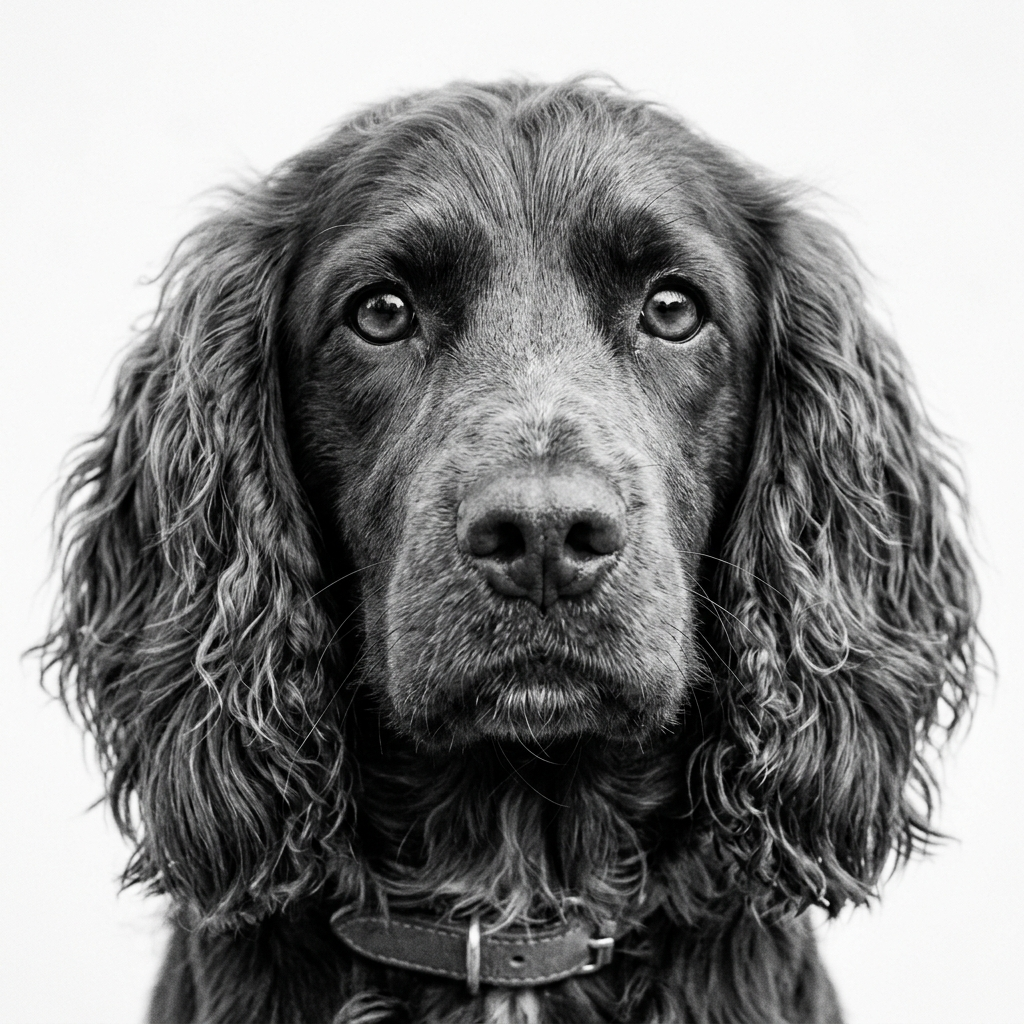
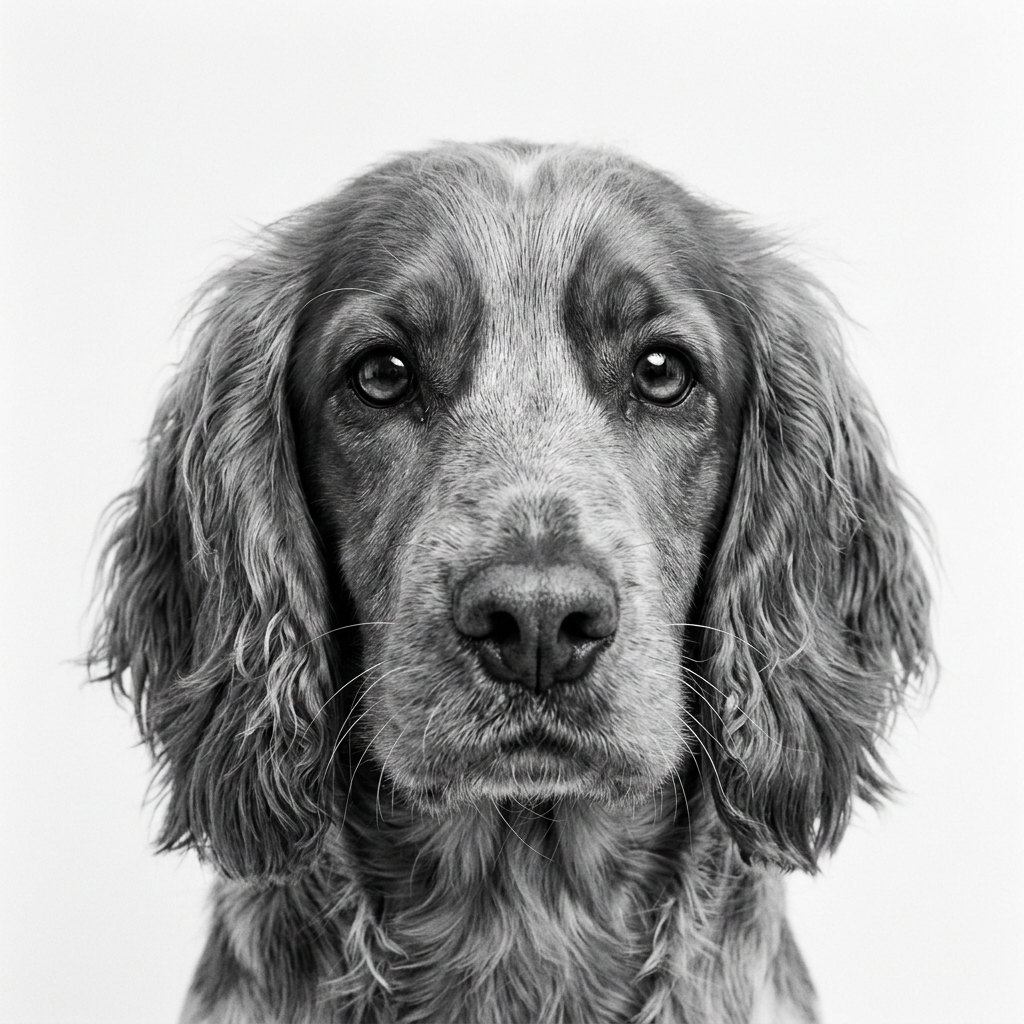
Numba kernels for scoring and the colour model; restore the original sample photos
engine/kernels.py holds two fused loops compiled by Numba on first use (numpy twins run
without it): score_add (gains of all candidate lines from H1 and H2) and color_terms (the
whole per-pixel colour model on a crop). Checked equal to float precision (ADR-018).

Bench, this desktop:
  single thread, man sample   0.1543 in 37.3 s  ->  0.1542 in 29.9 s
  auto four-colour plan       0.2496 in 209 s   ->  0.2304 in 55.5 s (more polish rounds)

The three original sample photos are restored from 990014f: the colour-sample script had
imported the generator module, which regenerates every sample at import, and v0.3.0 carried
the replacements by mistake. portrait-color.jpg stays. Container: NUMBA_CACHE_DIR in the
studio user's home, NUMBA_NUM_THREADS=2. Version 0.3.1. Tests: 40 passed.

diff --git a/stringart/engine/kernels.py b/stringart/engine/kernels.py
@@ -1,0 +1,185 @@
+"""Fused inner loops (ADR-018). Numba compiles them on first use and caches the result; without
+Numba the same functions run as plain numpy, slower but identical in result.
+
+Two kernels carry most of the engines' time:
+  score_add      gains of many candidate lines from the precomputed products H1 and H2
+  color_terms    per-pixel colour model on a crop: composite, Lab, Jacobian, one gradient
+                 integrand and one second-order weight per layer
+"""
+from __future__ import annotations
+
+import os
+
+import numpy as np
+
+try:  # pragma: no cover - exercised through the engines
+    import numba
+    from numba import njit, prange
+
+    HAVE_NUMBA = True
+    if "NUMBA_NUM_THREADS" not in os.environ:
+        try:
+            numba.set_num_threads(max(1, min(4, numba.config.NUMBA_NUM_THREADS)))
+        except Exception:  # noqa: BLE001
+            pass
+except Exception:  # noqa: BLE001
+    HAVE_NUMBA = False
+
+T_FLOOR = 1e-4
+
+
+# ---------------------------------------------------------------------------------------------
+# Line scoring
+# ---------------------------------------------------------------------------------------------
+
+def _score_add_numpy(H1f: np.ndarray, H2f: np.ndarray, idx: np.ndarray, a: np.ndarray) -> np.ndarray:
+    s1 = H1f[idx].sum(axis=1)
+    s2 = H2f[idx].sum(axis=1)
+    return (2.0 * a * s1 - a * a * s2).astype(np.float32)
+
+
+if HAVE_NUMBA:
+    @njit(cache=True, parallel=True, fastmath=True)
+    def _score_add_nb(H1f, H2f, idx, a):
+        m, L = idx.shape
+        out = np.empty(m, dtype=np.float32)
+        for i in prange(m):
+            s1 = 0.0
+            s2 = 0.0
+            for j in range(L):
+                p = idx[i, j]
+                s1 += H1f[p]
+                s2 += H2f[p]
+            out[i] = 2.0 * a[i] * s1 - a[i] * a[i] * s2
+        return out
+
+    def score_add(H1f: np.ndarray, H2f: np.ndarray, idx: np.ndarray, a: np.ndarray) -> np.ndarray:
+        return _score_add_nb(H1f, H2f, np.ascontiguousarray(idx), np.ascontiguousarray(a, dtype=np.float32))
+else:
+    score_add = _score_add_numpy
+
+
+# ---------------------------------------------------------------------------------------------
+# Colour model on a crop
+# ---------------------------------------------------------------------------------------------
+
+def _color_terms_numpy(Cb: np.ndarray, W: np.ndarray, lab_t: np.ndarray, rho: np.ndarray, rho_board: np.ndarray,
+                       m_norm: np.ndarray, k_blur: float) -> tuple[np.ndarray, np.ndarray]:
+    K = Cb.shape[0]
+    below = []
+    y = np.empty(Cb.shape[1:] + (3,), dtype=np.float32)
+    y[...] = rho_board
+    for k in range(K):
+        below.append(y)
+        c = Cb[k][..., None]
+        y = y + c * (rho[k] - y)
+    trans = np.cumprod((1.0 - Cb)[::-1], axis=0)[::-1]
+    above = np.ones_like(Cb)
+    if K > 1:
+        above[:-1] = trans[1:]
+    xyz = y @ m_norm.T
+    f = np.cbrt(np.maximum(xyz, T_FLOOR))
+    fp = (1.0 / 3.0) / (f * f)
+    lab = np.empty_like(y)
+    lab[..., 0] = 1.16 * f[..., 1] - 0.16
+    lab[..., 1] = 5.0 * (f[..., 0] - f[..., 1])
+    lab[..., 2] = 2.0 * (f[..., 1] - f[..., 2])
+    fx, fy, fz = fp[..., 0, None], fp[..., 1, None], fp[..., 2, None]
+    J = np.empty(y.shape + (3,), dtype=np.float32)
+    J[..., 0, :] = 1.16 * fy * m_norm[1]
+    J[..., 1, :] = 5.0 * fx * m_norm[0] - 5.0 * fy * m_norm[1]
+    J[..., 2, :] = 2.0 * fy * m_norm[1] - 2.0 * fz * m_norm[2]
+    r = lab - lab_t
+    JTr = J[..., 0, :] * r[..., 0, None] + J[..., 1, :] * r[..., 1, None] + J[..., 2, :] * r[..., 2, None]
+    integrand = np.empty((K,) + W.shape, dtype=np.float32)
+    Kk = np.empty_like(integrand)
+    kW = k_blur * W
+    for k in range(K):
+        dydc = (rho[k] - below[k]) * above[k][..., None]
+        integrand[k] = -(W * (JTr * dydc).sum(axis=-1))
+        Jd = J[..., :, 0] * dydc[..., 0, None] + J[..., :, 1] * dydc[..., 1, None] + J[..., :, 2] * dydc[..., 2, None]
+        Kk[k] = kW * (Jd * Jd).sum(axis=-1)
+    return integrand, Kk
+
+
+if HAVE_NUMBA:
+    @njit(cache=True, parallel=True, fastmath=True)
+    def _color_terms_nb(Cb, W, lab_t, rho, rho_board, m_norm, k_blur):
+        K, h, w = Cb.shape
+        integrand = np.empty((K, h, w), dtype=np.float32)
+        Kk = np.empty((K, h, w), dtype=np.float32)
+        for yy in prange(h):
+            below = np.empty((K, 3), dtype=np.float32)
+            above = np.empty(K, dtype=np.float32)
+            dydc = np.empty(3, dtype=np.float32)
+            Jd = np.empty(3, dtype=np.float32)
+            for xx in range(w):
+                # Composite in build order, remembering what lies under each layer.
+                y0 = rho_board[0]
+                y1 = rho_board[1]
+                y2 = rho_board[2]
+                for k in range(K):
+                    below[k, 0] = y0
+                    below[k, 1] = y1
+                    below[k, 2] = y2
+                    c = Cb[k, yy, xx]
+                    y0 = y0 + c * (rho[k, 0] - y0)
+                    y1 = y1 + c * (rho[k, 1] - y1)
+                    y2 = y2 + c * (rho[k, 2] - y2)
+                t = np.float32(1.0)
+                for k in range(K - 1, -1, -1):
+                    above[k] = t
+                    t = t * (1.0 - Cb[k, yy, xx])
+                # Lab and its Jacobian with respect to linear rgb.
+                X = m_norm[0, 0] * y0 + m_norm[0, 1] * y1 + m_norm[0, 2] * y2
+                Y = m_norm[1, 0] * y0 + m_norm[1, 1] * y1 + m_norm[1, 2] * y2
+                Z = m_norm[2, 0] * y0 + m_norm[2, 1] * y1 + m_norm[2, 2] * y2
+                if X < T_FLOOR:
+                    X = T_FLOOR
+                if Y < T_FLOOR:
+                    Y = T_FLOOR
+                if Z < T_FLOOR:
+                    Z = T_FLOOR
+                fX = X ** (1.0 / 3.0)
+                fY = Y ** (1.0 / 3.0)
+                fZ = Z ** (1.0 / 3.0)
+                px = (1.0 / 3.0) / (fX * fX)
+                py = (1.0 / 3.0) / (fY * fY)
+                pz = (1.0 / 3.0) / (fZ * fZ)
+                rL = (1.16 * fY - 0.16) - lab_t[yy, xx, 0]
+                ra = 5.0 * (fX - fY) - lab_t[yy, xx, 1]
+                rb = 2.0 * (fY - fZ) - lab_t[yy, xx, 2]
+                # Rows of d lab / d rgb.
+                j0r = 1.16 * py * m_norm[1, 0]
+                j0g = 1.16 * py * m_norm[1, 1]
+                j0b = 1.16 * py * m_norm[1, 2]
+                j1r = 5.0 * (px * m_norm[0, 0] - py * m_norm[1, 0])
+                j1g = 5.0 * (px * m_norm[0, 1] - py * m_norm[1, 1])
+                j1b = 5.0 * (px * m_norm[0, 2] - py * m_norm[1, 2])
+                j2r = 2.0 * (py * m_norm[1, 0] - pz * m_norm[2, 0])
+                j2g = 2.0 * (py * m_norm[1, 1] - pz * m_norm[2, 1])
+                j2b = 2.0 * (py * m_norm[1, 2] - pz * m_norm[2, 2])
+                # J^T r
+                gr = j0r * rL + j1r * ra + j2r * rb
+                gg = j0g * rL + j1g * ra + j2g * rb
+                gb = j0b * rL + j1b * ra + j2b * rb
+                wgt = W[yy, xx]
+                for k in range(K):
+                    ak = above[k]
+                    dydc[0] = (rho[k, 0] - below[k, 0]) * ak
+                    dydc[1] = (rho[k, 1] - below[k, 1]) * ak
+                    dydc[2] = (rho[k, 2] - below[k, 2]) * ak
+                    integrand[k, yy, xx] = -(wgt * (gr * dydc[0] + gg * dydc[1] + gb * dydc[2]))
+                    Jd[0] = j0r * dydc[0] + j0g * dydc[1] + j0b * dydc[2]
+                    Jd[1] = j1r * dydc[0] + j1g * dydc[1] + j1b * dydc[2]
+                    Jd[2] = j2r * dydc[0] + j2g * dydc[1] + j2b * dydc[2]
+                    Kk[k, yy, xx] = k_blur * wgt * (Jd[0] * Jd[0] + Jd[1] * Jd[1] + Jd[2] * Jd[2])
+        return integrand, Kk
+
+    def color_terms(Cb, W, lab_t, rho, rho_board, m_norm, k_blur):
+        return _color_terms_nb(np.ascontiguousarray(Cb, dtype=np.float32), np.ascontiguousarray(W, dtype=np.float32),
+                               np.ascontiguousarray(lab_t, dtype=np.float32), np.ascontiguousarray(rho, dtype=np.float32),
+                               np.ascontiguousarray(rho_board, dtype=np.float32), np.ascontiguousarray(m_norm, dtype=np.float32),
+                               np.float32(k_blur))
+else:
+    color_terms = _color_terms_numpy

diff --git a/stringart/engine/color.py b/stringart/engine/color.py
@@ -27,6 +27,7 @@ import cv2
 import numpy as np
 
 from stringart.board import BoardConfig
+from stringart.engine.kernels import color_terms, score_add
 from stringart.engine.polish import polish
 from stringart.engine.render import hex_to_rgb, srgb_to_linear
 from stringart.engine.state import Cancelled, Clock, EngineParams, ProgressFn, RunResult
@@ -191,24 +192,13 @@ class ColorState:
     def _gradient(self, Cb: np.ndarray, W: np.ndarray, lab_t: np.ndarray,
                   inner: tuple[slice, slice] | None = None) -> tuple[np.ndarray, np.ndarray]:
         """G (blurred, needs the whole crop) and K (pointwise, so only the `inner` part of the
-        crop when given) for every layer."""
-        y, below, above = self._composite(Cb)
-        lab, J = _lab_and_jacobian(y)
-        r = lab - lab_t                                          # (h, w, 3)
-        # d E / d y per pixel: J^T r, written as three multiply-adds over the rows of J.
-        JTr = J[..., 0, :] * r[..., 0, None] + J[..., 1, :] * r[..., 1, None] + J[..., 2, :] * r[..., 2, None]
-        sl = inner if inner is not None else (slice(None), slice(None))
-        G = np.empty((self.K,) + W.shape, dtype=np.float32)
-        Kk = np.empty((self.K,) + W[sl].shape, dtype=np.float32)
-        kW = self.k * W[sl]
-        Ji = J[sl]
+        crop when given) for every layer. The per-pixel model runs in one fused kernel."""
+        integrand, Kk = color_terms(Cb, W, lab_t, self.rho, self.rho_board, M_NORM, self.k)
+        G = np.empty_like(integrand)
         for k in range(self.K):
-            dydc = (self.rho[k] - below[k]) * above[k][..., None]    # (h, w, 3)
-            integrand = -(W * (JTr * dydc).sum(axis=-1))
-            G[k] = self._blur(integrand.astype(np.float32))
-            di = dydc[sl]
-            Jd = Ji[..., :, 0] * di[..., 0, None] + Ji[..., :, 1] * di[..., 1, None] + Ji[..., :, 2] * di[..., 2, None]
-            Kk[k] = kW * (Jd * Jd).sum(axis=-1)
+            G[k] = self._blur(integrand[k])
+        if inner is not None:
+            Kk = np.ascontiguousarray(Kk[:, inner[0], inner[1]])
         return G, Kk
 
     def _refresh_products(self, y0: int, y1: int, x0: int, x1: int) -> None:
@@ -260,7 +250,7 @@ class ColorState:
     def _score(self, layer: int, idx: np.ndarray, removal: bool, factor: np.ndarray) -> np.ndarray:
         a = np.minimum(self.a * factor, 0.97)
         if not removal:
-            return (2.0 * a * self.H1f[layer][idx].sum(axis=1) - a * a * self.H2f[layer][idx].sum(axis=1)).astype(np.float32)
+            return score_add(self.H1f[layer], self.H2f[layer], idx, a)
         c = self.Cf[layer][idx]
         aa = a[:, None]
         d = np.minimum((1.0 - c) * (aa / (1.0 - aa)), c)

diff --git a/stringart/engine/state.py b/stringart/engine/state.py
@@ -36,6 +36,7 @@ import cv2
 import numpy as np
 
 from stringart.board import BoardConfig
+from stringart.engine.kernels import score_add
 from stringart.engine.render import relative_luminance
 from stringart.raster import PAD_INDEX, bbox_of, sample_lines, step_factor
 
@@ -259,7 +260,7 @@ class RenderState:
         a = np.minimum(self.a * factor, 0.97)[:, None]
         if not removal:
             # d = a (1 - c): 2 sum d G - sum K d^2 = 2a sum H1 - a^2 sum H2, padded slots gather 0.
-            return (2.0 * a[:, 0] * self.H1f[idx].sum(axis=1) - a[:, 0] ** 2 * self.H2f[idx].sum(axis=1)).astype(np.float32)
+            return score_add(self.H1f, self.H2f, idx, a[:, 0])
         c = self.Cf[idx]
         d = np.minimum((1.0 - c) * (a / (1.0 - a)), c)
         g = self.Gf[idx]

diff --git a/stringart/__init__.py b/stringart/__init__.py
@@ -1,3 +1,3 @@
 """String Art Studio: turns a photo into a pin-and-thread build plan."""
 
-__version__ = "0.3.0"
+__version__ = "0.3.1"

diff --git a/docs/DECISIONS.md b/docs/DECISIONS.md
@@ -4,6 +4,23 @@ Short, dated records of why we chose something. Newest first. Reversals get a ne
 
 ## Decisions
 
+### ADR-018 - The two inner loops are Numba kernels, with numpy fallbacks
+**2026-11-05.** The owner asked whether the GPU could speed the engine up. Both machines have
+NVIDIA cards (the media PC a GTX 1060, the desktop an RTX 4070 SUPER) and CUDA reaches WSL2, but
+the greedy walk is strictly sequential and each step is a few small array operations, so a GPU
+port would be launch-latency bound, need a CUDA runtime in the image and the container toolkit
+in the homelab distro, and still leave the colour engine's per-tile maths as the bottleneck. The
+CPU route was taken first: `engine/kernels.py` holds two fused loops compiled by Numba on first
+use and cached (`NUMBA_CACHE_DIR` in the container): `score_add`, the gains of all candidate lines
+from the H1 and H2 products (1.3 ms to 0.14 ms for a fan of 210 lines), and `color_terms`, the
+whole per-pixel colour model on a crop (composite, Lab, Jacobian, one integrand and one
+second-order weight per layer; the colour line update went from 35 ms to 7 ms). Each has a plain
+numpy twin that runs when Numba is missing and that the kernels are checked against (equal to
+float precision). Result on this desktop: a four-colour plan of the colour sample in 55 s instead
+of 209 s with a lower error (0.230 against 0.250) because the local search gets many more rounds in
+its budget; a single-thread plan in 30 s instead of 37 s at the same error (0.154), since it is now bound by the tiled line update and the exact verification of local-search moves rather than by scoring. Numba threads are capped at two per worker in the container
+so two concurrent plans share the i3's four cores with OpenCV. Building the local search's gain matrix from the cached fans was tried and dropped: 240 separate calls were slower than one pass over all chord pairs.
+
 ### ADR-017 - Colour: one continuous thread per colour, layers composited in build order, CIELAB error
 **2026-11-05.** A colour plan is a list of layers, each a thread colour with its own pin sequence,
 laid lightest first and darkest last on a light board (the reverse on a dark one), because a dark

diff --git a/CLAUDE.md b/CLAUDE.md
@@ -30,6 +30,7 @@ stringart/
   engine/greedy.py   Engine A: greedy with error scoring, two-line bridge, local search, regrow.
   engine/polish.py   Local search: one gain matrix prices replace/insert/delete/unfold moves, each verified exactly.
   engine/color.py    Colour: per-colour layers composited in build order, CIELAB error, palettes, greedy over (colour, line).
+  engine/kernels.py  Numba-compiled inner loops (fan scoring, colour per-pixel model) with numpy fallbacks; check both when touching them.
   engine/setcover.py Engine B: chord multiset, prune, parity repair, Euler path.
   engine/render.py   Final thread-accurate render and the comparison image.
   exports/        Pin template PDF, SVG/DXF fab files, sequence TXT/CSV/JSON, project bundle ZIP.
@@ -44,7 +45,8 @@ deploy/           Media PC install script, Tailscale serve owner step, Homepage 
 ## Working agreement
 1. Decisions go into `docs/DECISIONS.md` as a new ADR at the top; other docs link to the ADR.
 2. Tests ship with the code: `.venv/Scripts/python.exe -m pytest -q` must pass. Engine changes get a
-   `scripts/bench.py` run on `samples/portrait-man.jpg` and the numbers go in the PR or commit body.
+   `scripts/bench.py` run on `samples/portrait-man.jpg` (and `--palette auto4` on `samples/portrait-color.jpg`
+   for colour) and the numbers go in the PR or commit body. Compare on the lightness error, not line count.
 3. The prep pipeline is one function for preview and generation (`prep.prepare_target`); never let the
    preview and the engine see different images.
 4. Settings, not constants: anything a household would change (board, thread, engine knobs) is a field on

diff --git a/docs/RUNBOOK.md b/docs/RUNBOOK.md
@@ -108,7 +108,7 @@ can also travel as a bundle ZIP from the results page.
 
 Pick a palette in the Board panel (or Auto to take colours from the photo); the preview turns to
 colour and the swatches show the build order, lightest first. Colour plans run on engine A and take
-about five times as long as a single thread (3.5 minutes for 4,000 lines on a desktop, four to five on the media PC).
+about twice as long as a single thread (about one minute for 4,000 lines on a desktop, two on the media PC).
 In build mode the current colour sits in the top bar and the player stops at each change: tie off,
 change thread, tie on at the pin shown, press Next. Buy one spool per colour; the metrics table
 gives the thread per colour.

diff --git a/docs/ROADMAP.md b/docs/ROADMAP.md
@@ -65,6 +65,13 @@ Not done:
 - Engine B for colour.
 - Thread brand palettes (measured colours of real spools); the presets are nominal hex values.
 
+## v3 part three, speed (built 2026-11-05)
+
+Numba kernels for the fan scoring and the colour per-pixel model (ADR-018): colour plans about
+four times faster, single-thread plans faster too; numpy fallbacks keep the engines working
+without Numba. A CUDA port of the colour engine remains possible (both homelab machines have
+NVIDIA cards) but was judged not worth its image and driver footprint yet.
+
 ## Later
 
 - Square and rectangular frames; printable thread-width test pattern; minimum-weight matching in
